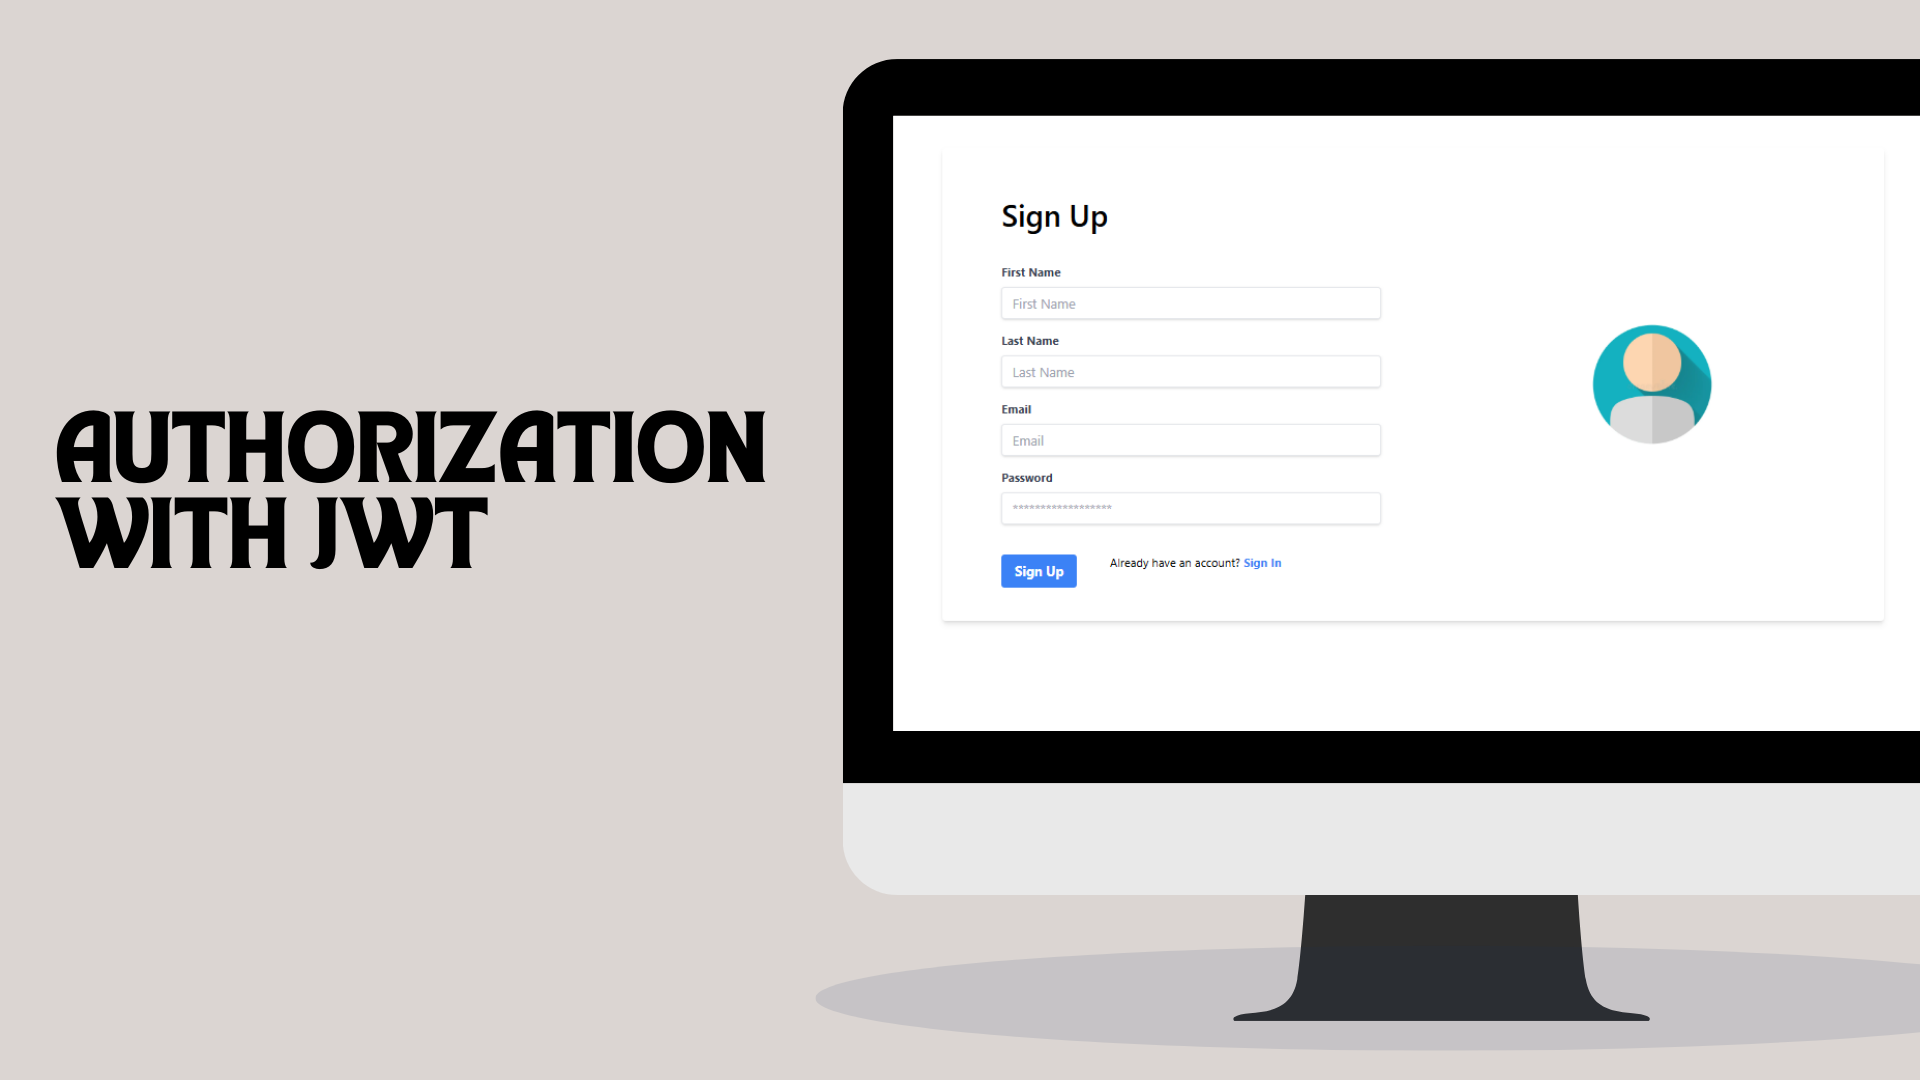
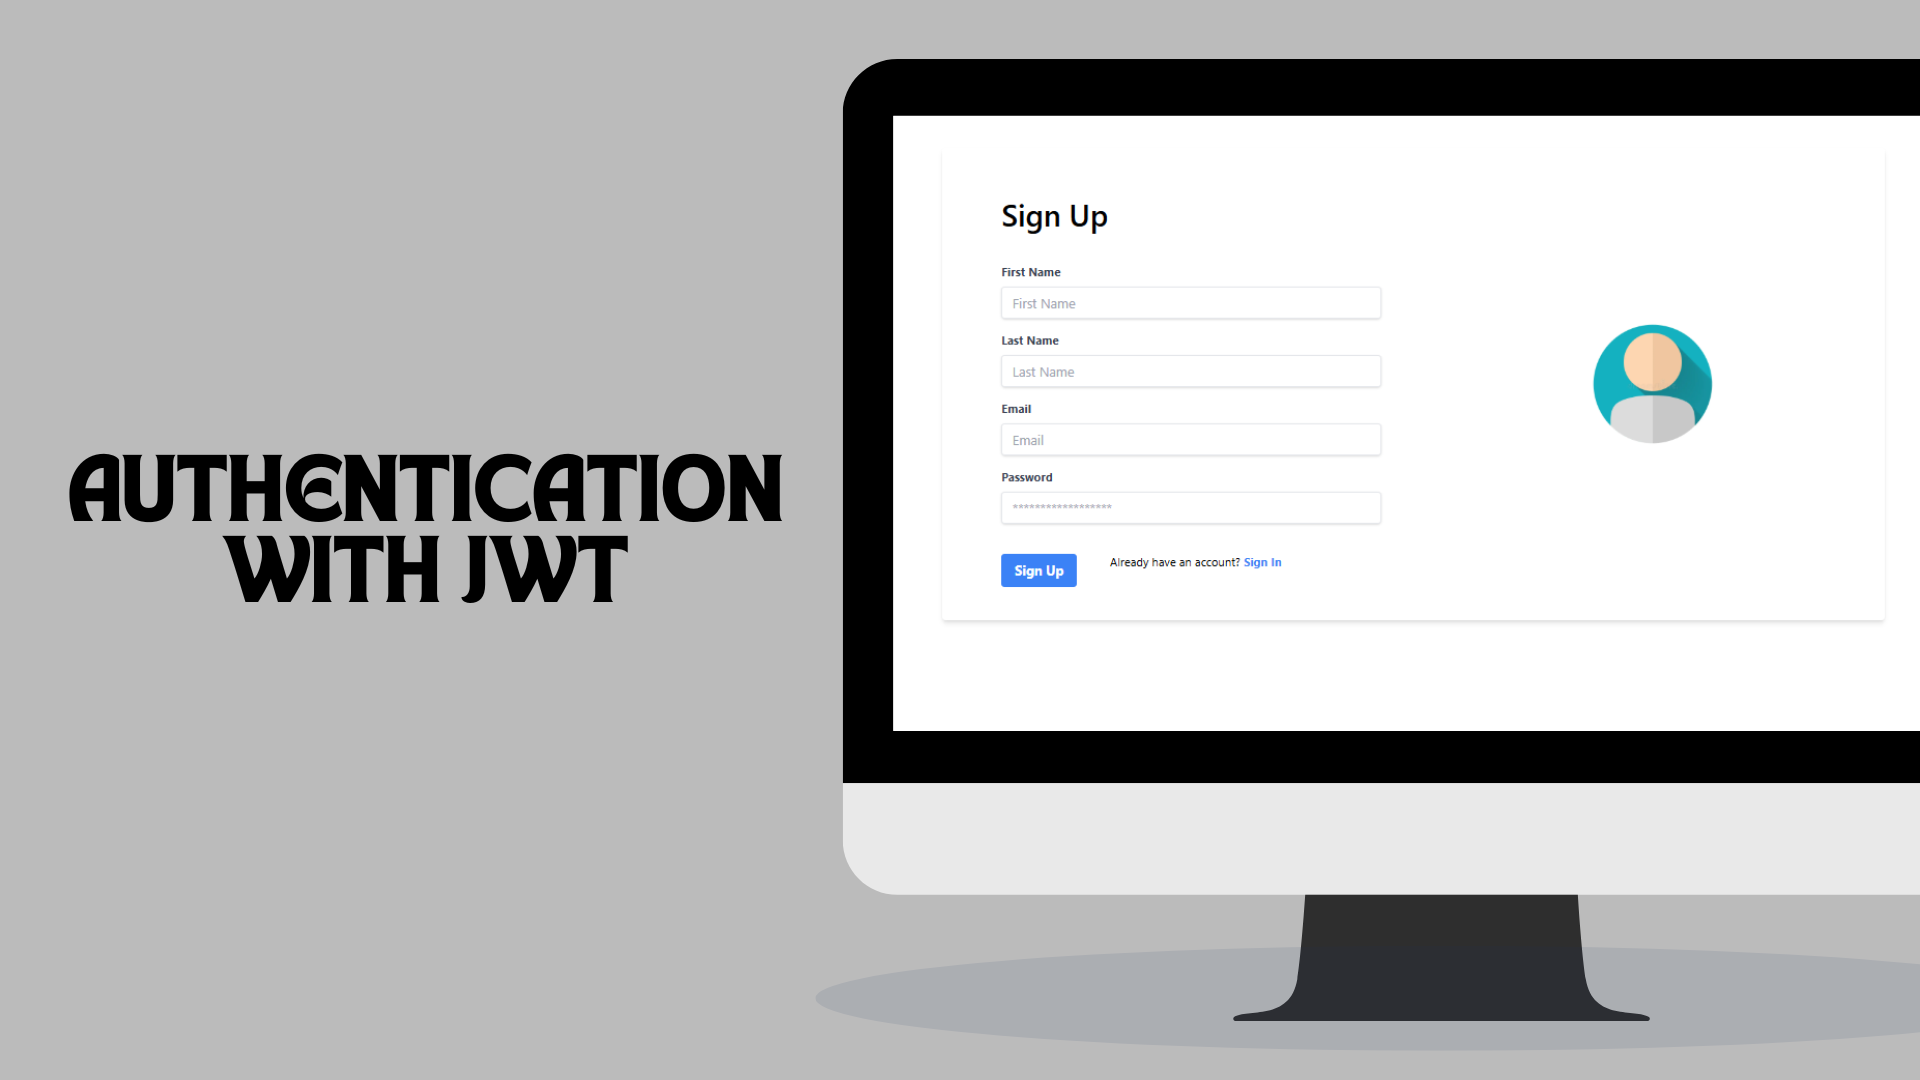
as

diff --git a/src/app/projects/projects.component.ts b/src/app/projects/projects.component.ts
@@ -15,8 +15,8 @@ export class ProjectsComponent implements OnInit{
     this.projects = [
       {
         id: 1,
-        name: "Authorization with JWT",
-        description: "lorem",
+        name: "Authentication with JWT",
+        description: "lorem lorem lorem lorem lorem lorem lorem lorem lorem lorem lorem lorem lorem lorem lorem lorem lorem lorem lorem lorem lorem lorem lorem lorem lorem lorem lorem lorem lorem lorem lorem lorem lorem lorem lorem lorem lorem lorem lorem lorem lorem lorem lorem lorem lorem lorem lorem lorem",
         image: "authentication.webp",
         frontEnd: 
         this.languages = [

diff --git a/src/app/projects/projects.component.html b/src/app/projects/projects.component.html
@@ -6,8 +6,8 @@
 
     
       <div class="flex w-full gap-14 rounded-4xl mt-16 py-12">
-        <div class="w-3/4">
-          <img class="rounded-4xl" src={{project.image}} alt="">
+        <div class="w-2/3 flex">
+          <img class="rounded-4xl justify-center" src={{project.image}} alt="">
         </div>
         <div class="flex flex-col justify-evenly w-3/4">
           <div>
